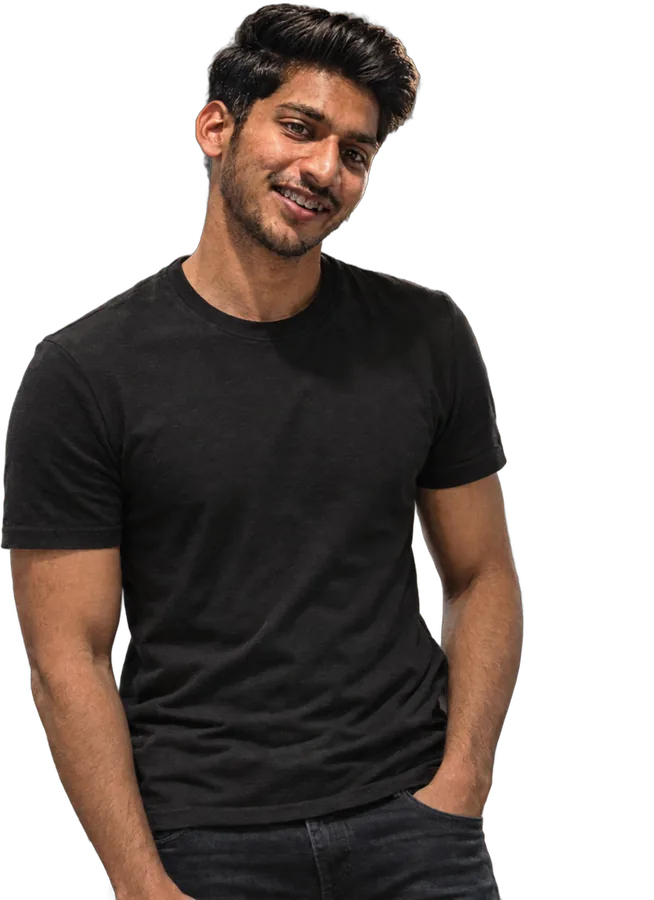
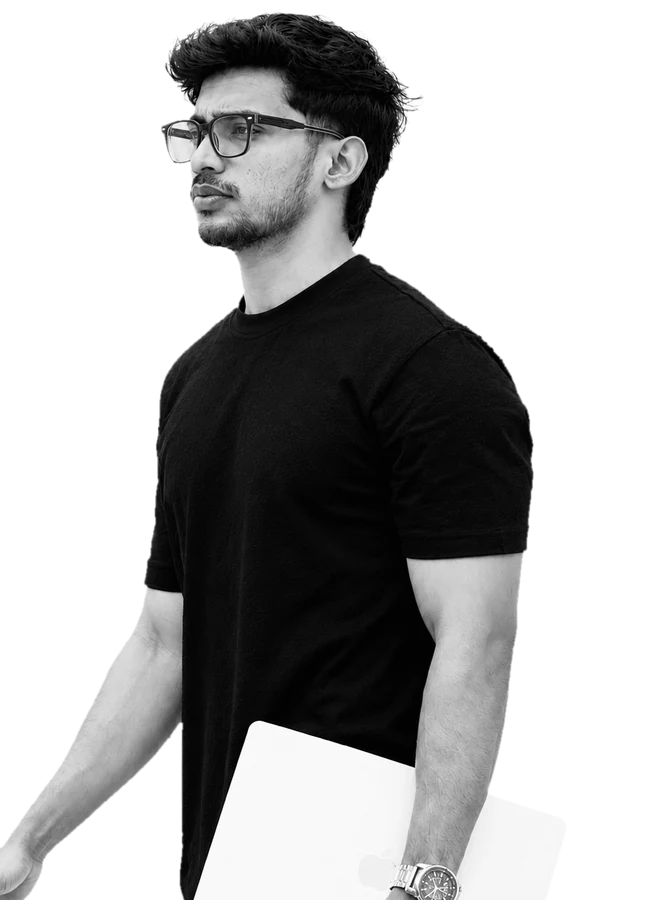
Update founder photo for Ahmmed

diff --git a/index.html b/index.html
@@ -306,7 +306,7 @@
         <div class="win-stack member-win">
           <div class="win">
             <div class="win-bar"><span class="dots"><i></i><i></i><i></i></span><b>Founder &amp; CTO</b></div>
-            <div class="win-body grid-bg" style="background-color:var(--lime)"><span class="initial" aria-hidden="true">A</span><img loading="lazy" decoding="async" class="member-photo" src="assets/img/team-ahmmed.webp?v=1" alt="Ahmmed, founder and CTO of webnwillow" width="654" height="900"><span class="member-stickers mini" aria-hidden="true"><svg><use href="#s-code"/></svg></span></div>
+            <div class="win-body grid-bg" style="background-color:var(--lime)"><span class="initial" aria-hidden="true">A</span><img loading="lazy" decoding="async" class="member-photo" src="assets/img/team-ahmmed.webp?v=2" alt="Ahmmed, founder and CTO of webnwillow" width="654" height="900"><span class="member-stickers mini" aria-hidden="true"><svg><use href="#s-code"/></svg></span></div>
           </div>
           <div class="member-name" style="background:var(--blue);color:var(--lime)"><b>Ahmmed</b><small>Founder &amp; CTO</small></div>
         </div>

diff --git a/about.html b/about.html
@@ -87,7 +87,7 @@
         <div class="win-stack member-win">
           <div class="win">
             <div class="win-bar"><span class="dots"><i></i><i></i><i></i></span><b>Founder &amp; CTO</b></div>
-            <div class="win-body grid-bg" style="background-color:var(--lime)"><span class="initial" aria-hidden="true">A</span><img loading="lazy" decoding="async" class="member-photo" src="assets/img/team-ahmmed.webp?v=1" alt="Ahmmed, founder and CTO of webnwillow" width="654" height="900"><span class="member-stickers mini" aria-hidden="true"><svg><use href="#s-code"/></svg></span></div>
+            <div class="win-body grid-bg" style="background-color:var(--lime)"><span class="initial" aria-hidden="true">A</span><img loading="lazy" decoding="async" class="member-photo" src="assets/img/team-ahmmed.webp?v=2" alt="Ahmmed, founder and CTO of webnwillow" width="654" height="900"><span class="member-stickers mini" aria-hidden="true"><svg><use href="#s-code"/></svg></span></div>
           </div>
           <div class="member-name" style="background:var(--blue);color:var(--lime)"><b>Ahmmed</b><small>Founder &amp; CTO</small></div>
         </div>
